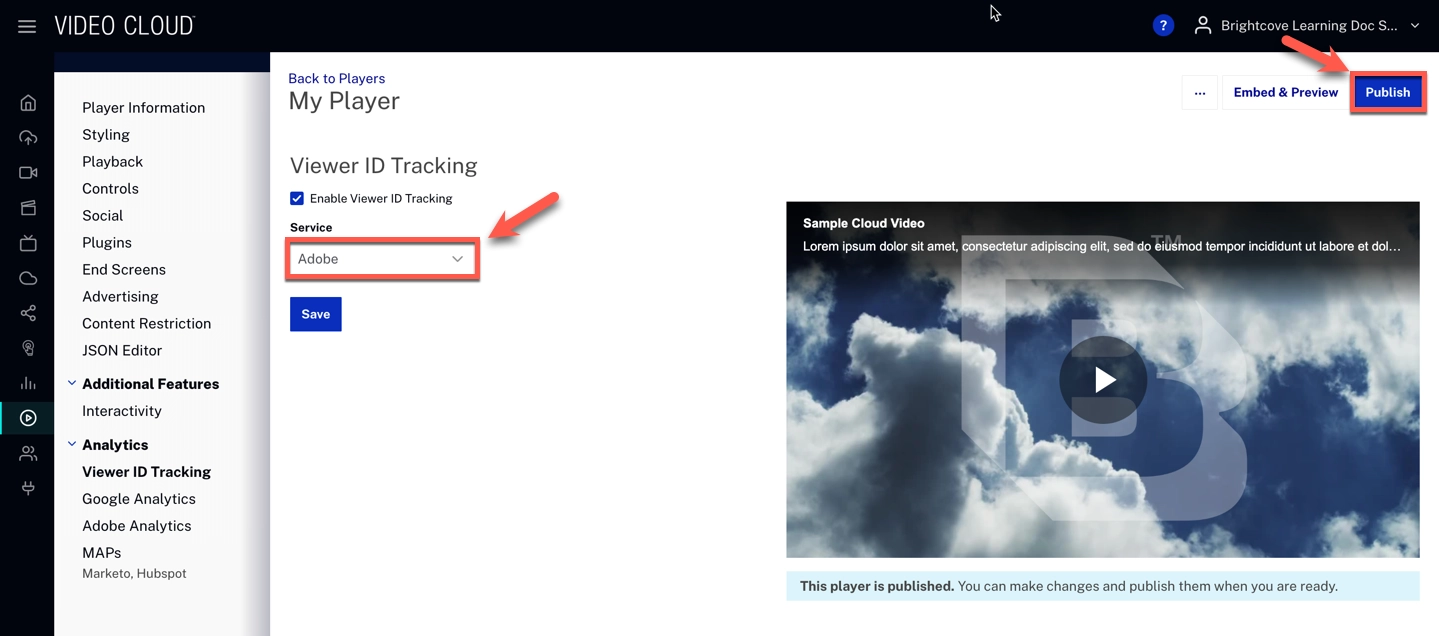
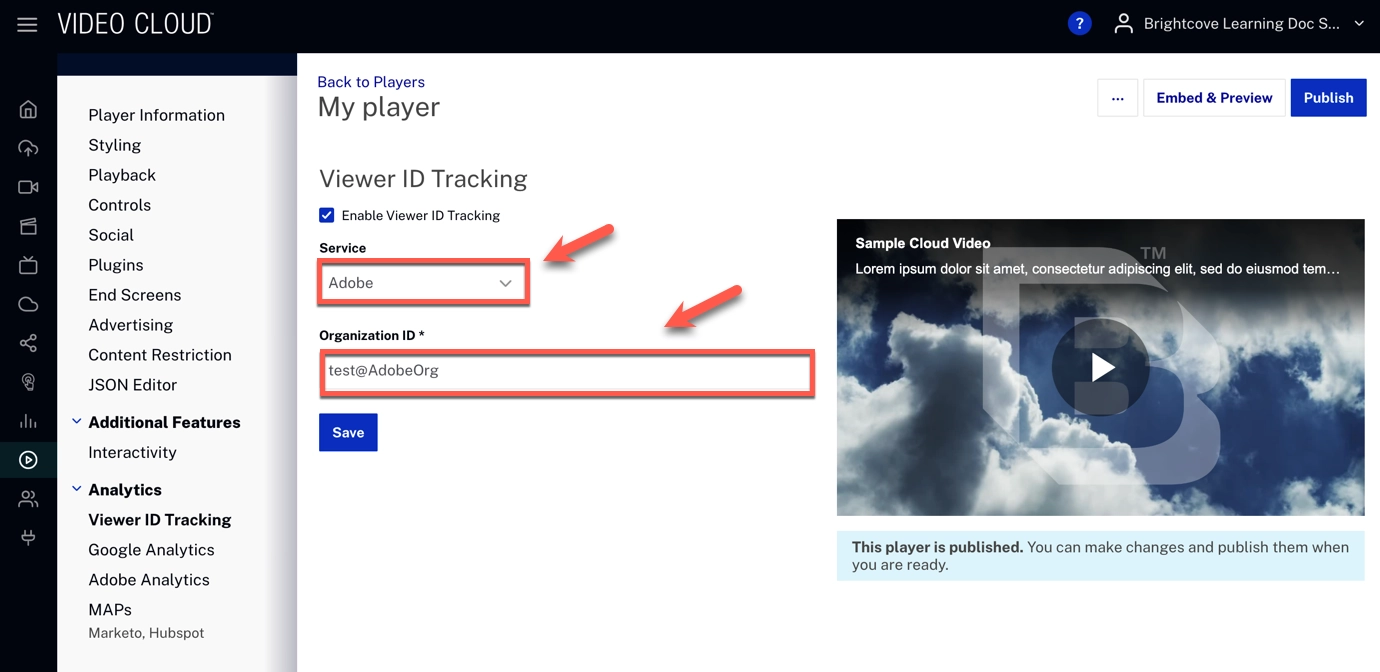
updates to viewer id

diff --git a/_site/players/properties/viewer-id-tracking.html b/_site/players/properties/viewer-id-tracking.html
@@ -3499,6 +3499,10 @@
         <p></p>
         <li>Enter your <strong><a href="https://nation.marketo.com/t5/knowledgebase/how-to-find-your-munchkin-id-for-a-marketo-instance/ta-p/248432">Account ID</a></strong></li>
         <p></p>
+        <li>Enter your <strong>Domain Level Override</strong>
+        <aside class="bcls-aside bcls-aside--information">Please note that this field can remain empty, and Marketo will detect the level at which to drop the cookie, but you can also override and determine if the cookie should be dropped at the 2nd-level domain <code translate="no">*brightcove.com</code>, third-level domain <code translate="no">subdomain.brightcove.com</code>, or further down.</aside>
+        </li>
+        <p></p>
         <li>Click <span class="button-blue">Save</span></li>
         <p></p>
         <li>Click <span class="button-blue">Publish</span></li>
@@ -3541,6 +3545,8 @@
       <h5 id="adobe">Adobe:</h5>
       <ul>
         <li>Select <strong>Adobe</strong></li>
+        <p></p>
+        <li>Enter the <strong>Organization ID</strong>. For more information on how to locate the Organization ID, see <a href="https://experienceleague.adobe.com/en/docs/core-services/interface/administration/admin-getting-started">here</a>.</li>
         <p></p>
         <li>Click <span class="button-blue">Save</span></li>
         <p></p>
@@ -3615,7 +3621,8 @@
           <pre class="line-numbers">
             <code class="language-json" translate="No">"viewer_id_source": {
     "source": "marketo",
-    "account_id: "account1234"
+    "account_id": "account1234",
+    "domain_level": "1"
 }</code></pre>
         </li>
         <li>
@@ -3634,7 +3641,8 @@
         <li>Adobe
           <pre class="line-numbers">
             <code class="language-json" translate="No">"viewer_id_source": {
-    "source": "adobe"
+    "source": "adobe",
+    "marketing_cloud_org_id": "test@AdobeOrg"
 }</code></pre>
         </li>
         <li>Gtag
